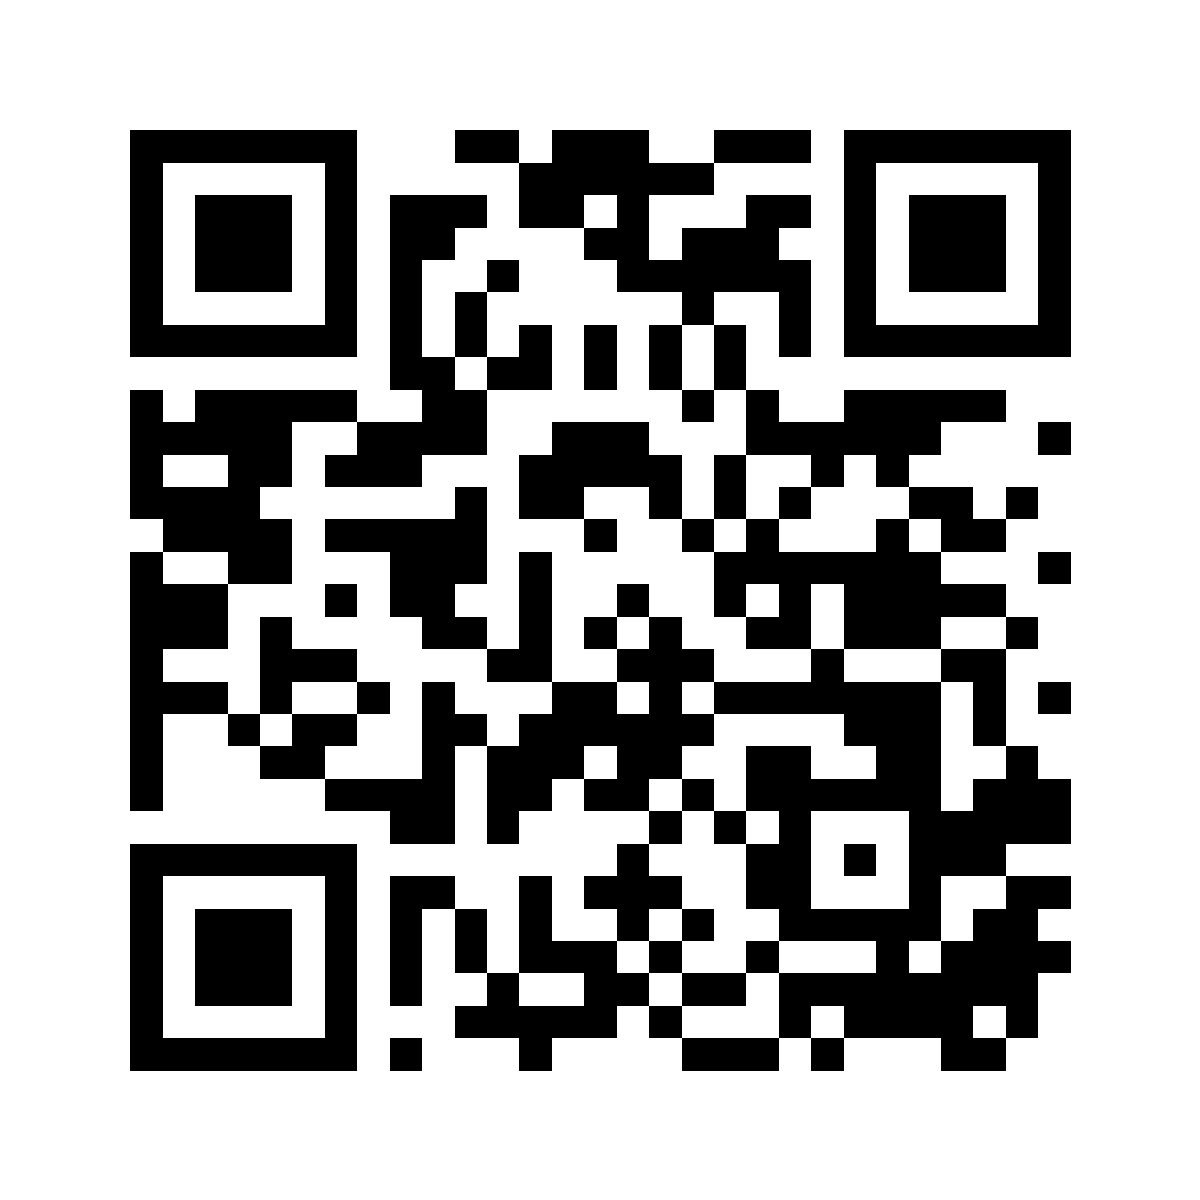
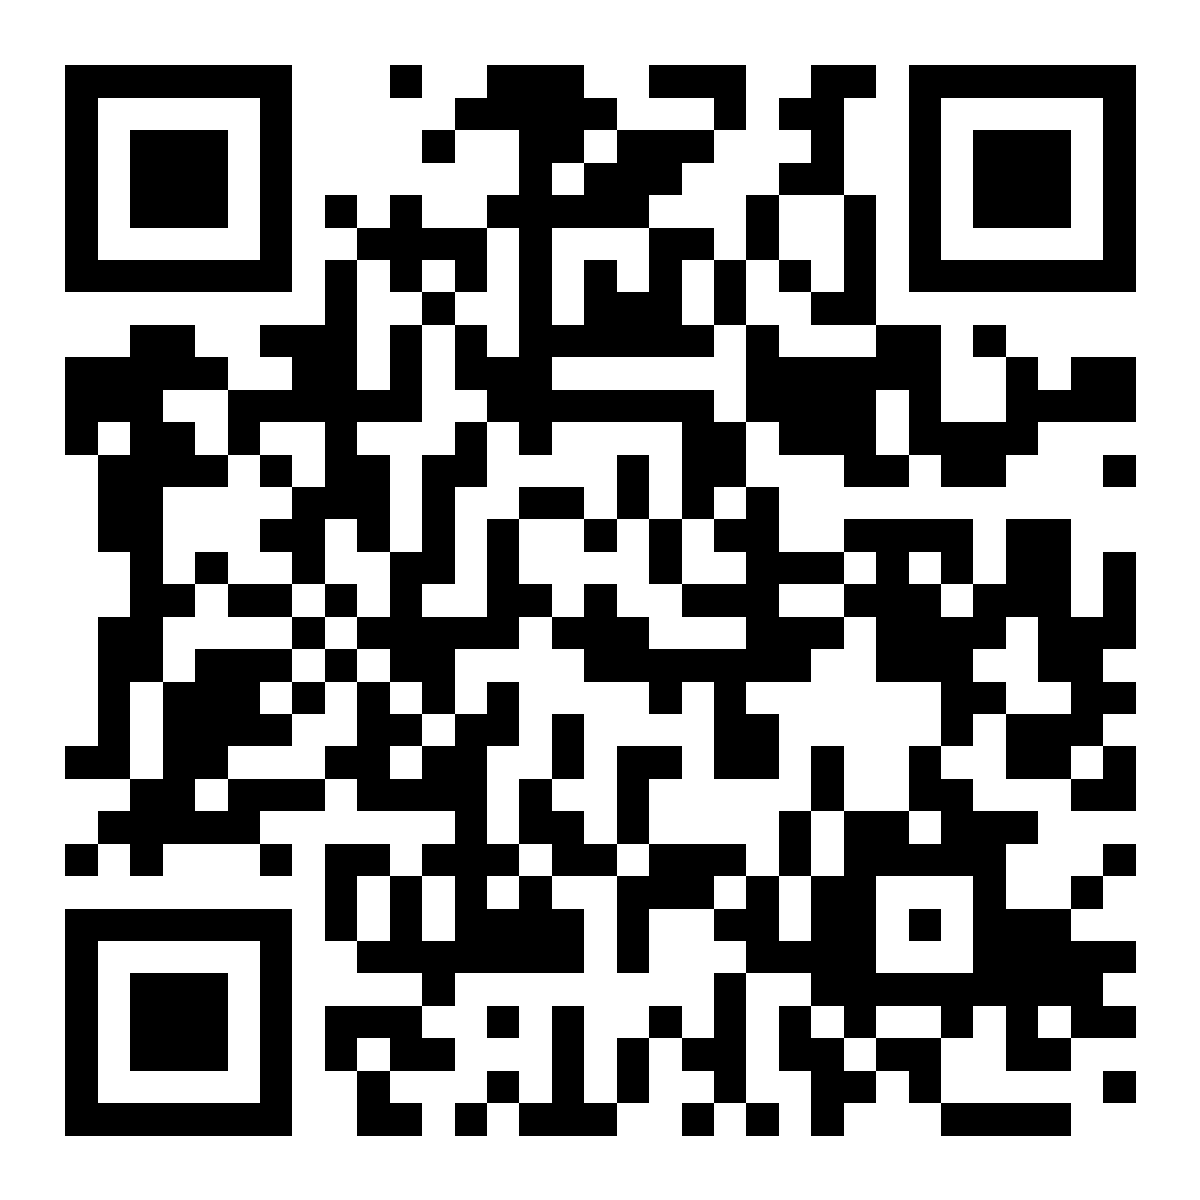
Improve Pages QR code scannability

diff --git a/scripts/make_qrcode_with_logo.py b/scripts/make_qrcode_with_logo.py
@@ -25,8 +25,9 @@ def main():
     logo = Image.open(logo_path).convert("RGBA")
 
     qr_size = qr.size[0]
-    logo_size = int(qr_size * 0.18)
-    padding = int(qr_size * 0.025)
+    # Keep the center image small: large white logo blocks can make QR scanners fail.
+    logo_size = int(qr_size * 0.14)
+    padding = int(qr_size * 0.008)
     box_size = logo_size + padding * 2
 
     logo.thumbnail((logo_size, logo_size), Image.Resampling.LANCZOS)
@@ -39,7 +40,6 @@ def main():
         logo,
         ((logo_size - logo.width) // 2, (logo_size - logo.height) // 2),
     )
-    logo_mask = rounded_mask((logo_size, logo_size), int(logo_size * 0.16))
     box.alpha_composite(logo_canvas, (padding, padding))
 
     position = ((qr.width - box_size) // 2, (qr.height - box_size) // 2)
@@ -55,7 +55,7 @@ def main():
         ),
         radius=int(box_size * 0.18),
         outline=(255, 255, 255, 255),
-        width=max(4, int(qr_size * 0.012)),
+        width=max(3, int(qr_size * 0.006)),
     )
 
     out_path.parent.mkdir(parents=True, exist_ok=True)
